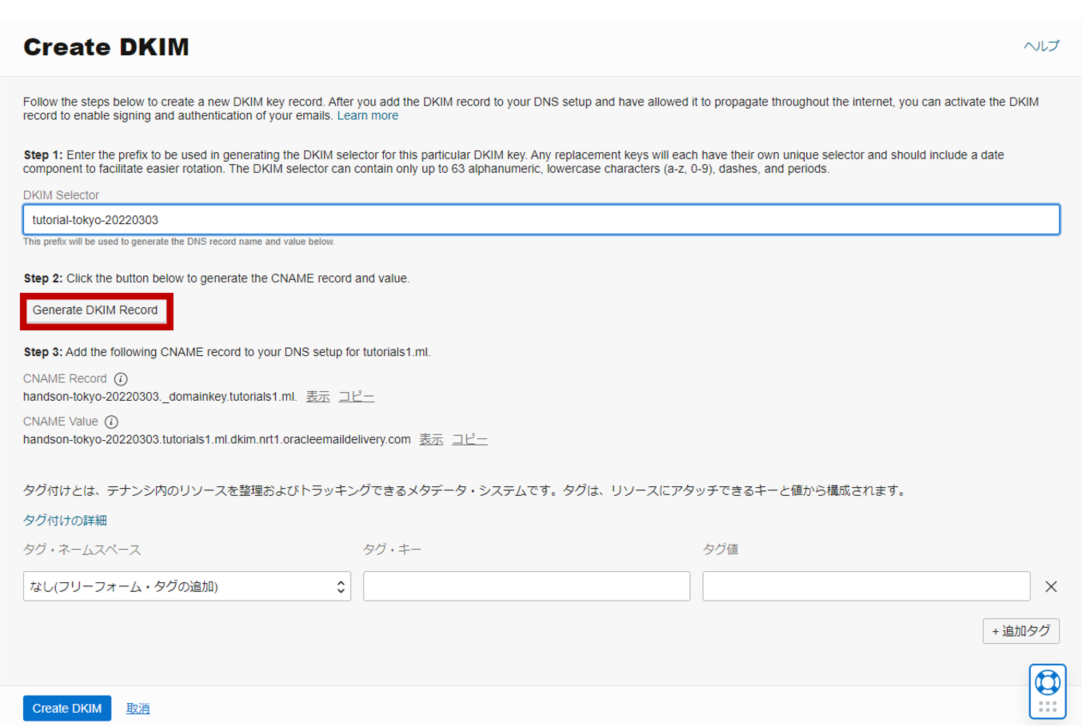
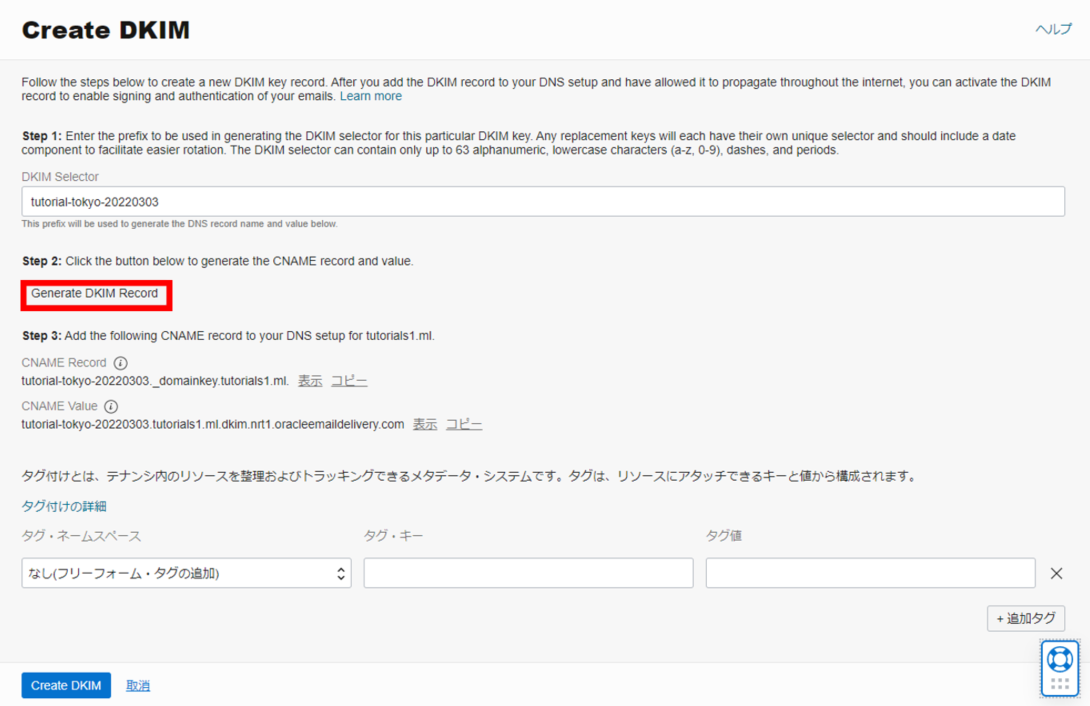
Email Deliveryサービスの画像および文章の修正

diff --git a/tutorials/_intermediates/sending-emails-2.md b/tutorials/_intermediates/sending-emails-2.md
@@ -93,14 +93,14 @@ DKIMを設定するにはDKIMを作成してからDNSレコードにその情報
     >**`Note`**  
     DKIMセレクターの値はドメインに対して必ずグローバルで一意になっている必要があります。なので「prefix（接頭辞）-region（リージョン）-YYYYMMDD（日付）」で登録することが推奨されています。
     
-4. DNSサーバーにDKIMの情報を実装します。**`ネットワーキング → ゾーン`** を選択して、既存のDNSゾーンをクリックします。今回のチュートリアルでは **`tutorials1.ml`** のDNSゾーンを使用します。
+4. DNSサーバーにDKIMの情報を実装します。**`ネットワーキング → ゾーン`** を選択して、既存のDNSゾーンをクリックします。
     
 5. DNSレコードの追加を行います。
   - **`レコード型`**　-　CNAME - CNAME
-  - **`名前`**　- handson-tokyo-20220303._domainkey（CNAME Recordの値を記入します）
+  - **`名前`**　- tutorial-tokyo-20220303._domainkey（CNAME Recordの値を記入します）
   - **`TTL`**　- 30
   - **`Rdataモード`**　- 基本
-  - **`Text(テキスト)`**　- tutorial-tokyo-20220304.tutorial.com.dkim.nrt1.oracleemaildelivery.com(CNAME Valueを記入します)
+  - **`Text(テキスト)`**　- tutorial-tokyo-20220303.tutorials1.ml.dkim.nrt1.oracleemaildelivery.com(CNAME Valueを記入します)
     
     ![img9.png](img9.png)
 
